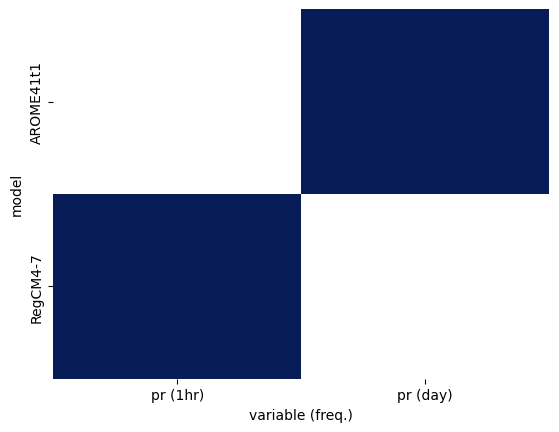
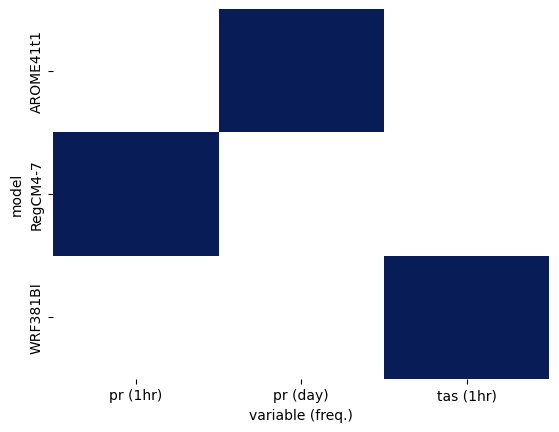
Update FPSCONV tables
- Fix broken link to CSV
 - Add new uppercase project to search
 - Use IPSL index node for the search (DKRZ not updated yet)

diff --git a/docs/CORDEX_FPSCONV_status.html b/docs/CORDEX_FPSCONV_status.html
@@ -18,7 +18,7 @@ a:active { text-decoration: underline;}
 </style>
 </head><body>
 <h1 id="top"> CORDEX-FPSCONV ESGF summary tables</h1>
-<p style="text-align: right;">(Version: 2023-06-07 21:15)</p>
+<p style="text-align: right;">(Version: 2023-06-08 17:46)</p>
 <p style="text-align:left"> Domains:</p>
 <ul>
   <li><a href="#ALP-3">ALP-3</a>  </li>
@@ -29,20 +29,21 @@ a:active { text-decoration: underline;}
       <span class="published">published</span>
     </p>
   <style  type="text/css" >
-    #T_885dd_ .level0 {
+    #T_f22e8_ .level0 {
           min-width: 100px;
-    }    #T_885dd_ th {
+    }    #T_f22e8_ th {
           font-size: 8pt;
           border-style: solid;
           border-width: 1px;
-    }#T_885dd_row0_col0,#T_885dd_row0_col1{
+    }#T_f22e8_row0_col0,#T_f22e8_row0_col1,#T_f22e8_row0_col2{
             font-size:  8pt;
             border:  1px lightgrey solid !important;
-        }</style><table id="T_885dd_" ><thead>    <tr>        <th class="blank" ></th>        <th class="index_name level0" >Institution(s)</th>        <th class="col_heading level0 col0" >CNRM</th>        <th class="col_heading level0 col1" >ICTP</th>    </tr>    <tr>        <th class="blank" ></th>        <th class="index_name level1" >RCM</th>        <th class="col_heading level1 col0" >AROME41t1</th>        <th class="col_heading level1 col1" >RegCM4-7</th>    </tr>    <tr>        <th class="index_name level0" >driving_model</th>        <th class="index_name level1" >ensemble</th>        <th class="blank" ></th>        <th class="blank" ></th>    </tr></thead><tbody>
+        }</style><table id="T_f22e8_" ><thead>    <tr>        <th class="blank" ></th>        <th class="index_name level0" >Institution(s)</th>        <th class="col_heading level0 col0" >CNRM</th>        <th class="col_heading level0 col1" >ICTP</th>        <th class="col_heading level0 col2" >UCAN</th>    </tr>    <tr>        <th class="blank" ></th>        <th class="index_name level1" >RCM</th>        <th class="col_heading level1 col0" >AROME41t1</th>        <th class="col_heading level1 col1" >RegCM4-7</th>        <th class="col_heading level1 col2" >WRF381BI</th>    </tr>    <tr>        <th class="index_name level0" >driving_model</th>        <th class="index_name level1" >ensemble</th>        <th class="blank" ></th>        <th class="blank" ></th>        <th class="blank" ></th>    </tr></thead><tbody>
                 <tr>
-                        <th id="T_885dd_level0_row0" class="row_heading level0 row0" >ECMWF-ERAINT</th>
-                        <th id="T_885dd_level1_row0" class="row_heading level1 row0" >r1i1p1</th>
-                        <td id="T_885dd_row0_col0" class="data row0 col0" ><span class="published">evaluation</span></td>
-                        <td id="T_885dd_row0_col1" class="data row0 col1" ><span class="published">evaluation</span></td>
+                        <th id="T_f22e8_level0_row0" class="row_heading level0 row0" >ECMWF-ERAINT</th>
+                        <th id="T_f22e8_level1_row0" class="row_heading level1 row0" >r1i1p1</th>
+                        <td id="T_f22e8_row0_col0" class="data row0 col0" ><span class="published">evaluation</span></td>
+                        <td id="T_f22e8_row0_col1" class="data row0 col1" ><span class="published">evaluation</span></td>
+                        <td id="T_f22e8_row0_col2" class="data row0 col2" ><span class="published">evaluation</span></td>
             </tr>
     </tbody></table></body></html>

diff --git a/docs/CORDEX_FPSCONV_varlist.html b/docs/CORDEX_FPSCONV_varlist.html
@@ -34,7 +34,7 @@ span.published {color: #3399FF; font-weight: bold}
 </head>
 <body>
 <h1>CORDEX-FPSCONV on ESGF</h1>
-<p> CORDEX-FPSCONV simulations providing some data on ESGF as of <b>2023-06-07 21:15</b>. The full list as CSV can be obtained from <a href="https://github.com/WCRP-CORDEX/simulation-status/raw/main/docs/CORDEX_CMIP5_FPSCONV_all_variables.csv">here</a>.
+<p> CORDEX-FPSCONV simulations providing some data on ESGF as of <b>2023-06-08 17:46</b>. The full list as CSV can be obtained from <a href="https://github.com/WCRP-CORDEX/simulation-status/raw/main/docs/CORDEX_CMIP5_FPSCONV_all_variables.csv">here</a>.
 </p>
 <img src="CORDEX_FPSCONV_varlist.png"/>
 
@@ -77,6 +77,18 @@ span.published {color: #3399FF; font-weight: bold}
             <td>fpsconv-x2yn2-v1</td>
             <td>1hr</td>
             <td>pr</td>
+            <td><span class="published">published</span></td>
+        </tr>
+        <tr>
+            <td>ALP-3</td>
+            <td>UCAN</td>
+            <td>ECMWF-ERAINT</td>
+            <td>evaluation</td>
+            <td>r1i1p1</td>
+            <td>WRF381BI</td>
+            <td>fpsconv-x1n2-v1</td>
+            <td>1hr</td>
+            <td>tas</td>
             <td><span class="published">published</span></td>
         </tr>
 

diff --git a/CORDEX_FPSCONV_status.py b/CORDEX_FPSCONV_status.py
@@ -27,10 +27,11 @@ facets = (
 #
 #   Load search results
 #
-conn = SearchConnection('http://esgf-data.dkrz.de/esg-search', distrib=True)
+#conn = SearchConnection('http://esgf-data.dkrz.de/esg-search', distrib=True)
+conn = SearchConnection('https://esgf-node.ipsl.upmc.fr/esg-search', distrib=True)
 logging.getLogger('pyesgf.search.connection').setLevel(loglevel)
 df = pd.DataFrame()
-for proj in ['cordex-fpsconv']:
+for proj in ['cordex-fpsconv','CORDEX-FPSCONV']:
   logger.info(f'Retrieving {proj} variables ...')
   ctx = conn.new_context(project = proj)
   dids = [result.dataset_id for result in ctx.search(batch_size=1000, ignore_facet_check=True)]
@@ -79,7 +80,7 @@ csv2datatable(
   'docs/CORDEX_FPSCONV_varlist.html',
   title = 'CORDEX-FPSCONV on ESGF',
   intro = f'''
-<p> CORDEX-FPSCONV simulations providing some data on ESGF as of <b>{datetime.datetime.now().strftime("%Y-%m-%d %H:%M")}</b>. The full list as CSV can be obtained from <a href="https://github.com/WCRP-CORDEX/simulation-status/raw/main/docs/CORDEX_CMIP5_FPSCONV_all_variables.csv">here</a>.
+<p> CORDEX-FPSCONV simulations providing some data on ESGF as of <b>{datetime.datetime.now().strftime("%Y-%m-%d %H:%M")}</b>. The full list as CSV can be obtained from <a href="https://github.com/WCRP-CORDEX/simulation-status/raw/main/docs/CORDEX_FPSCONV_ESGF_all_variables.csv">here</a>.
 </p>
 <img src="CORDEX_FPSCONV_varlist.png"/>
 '''
